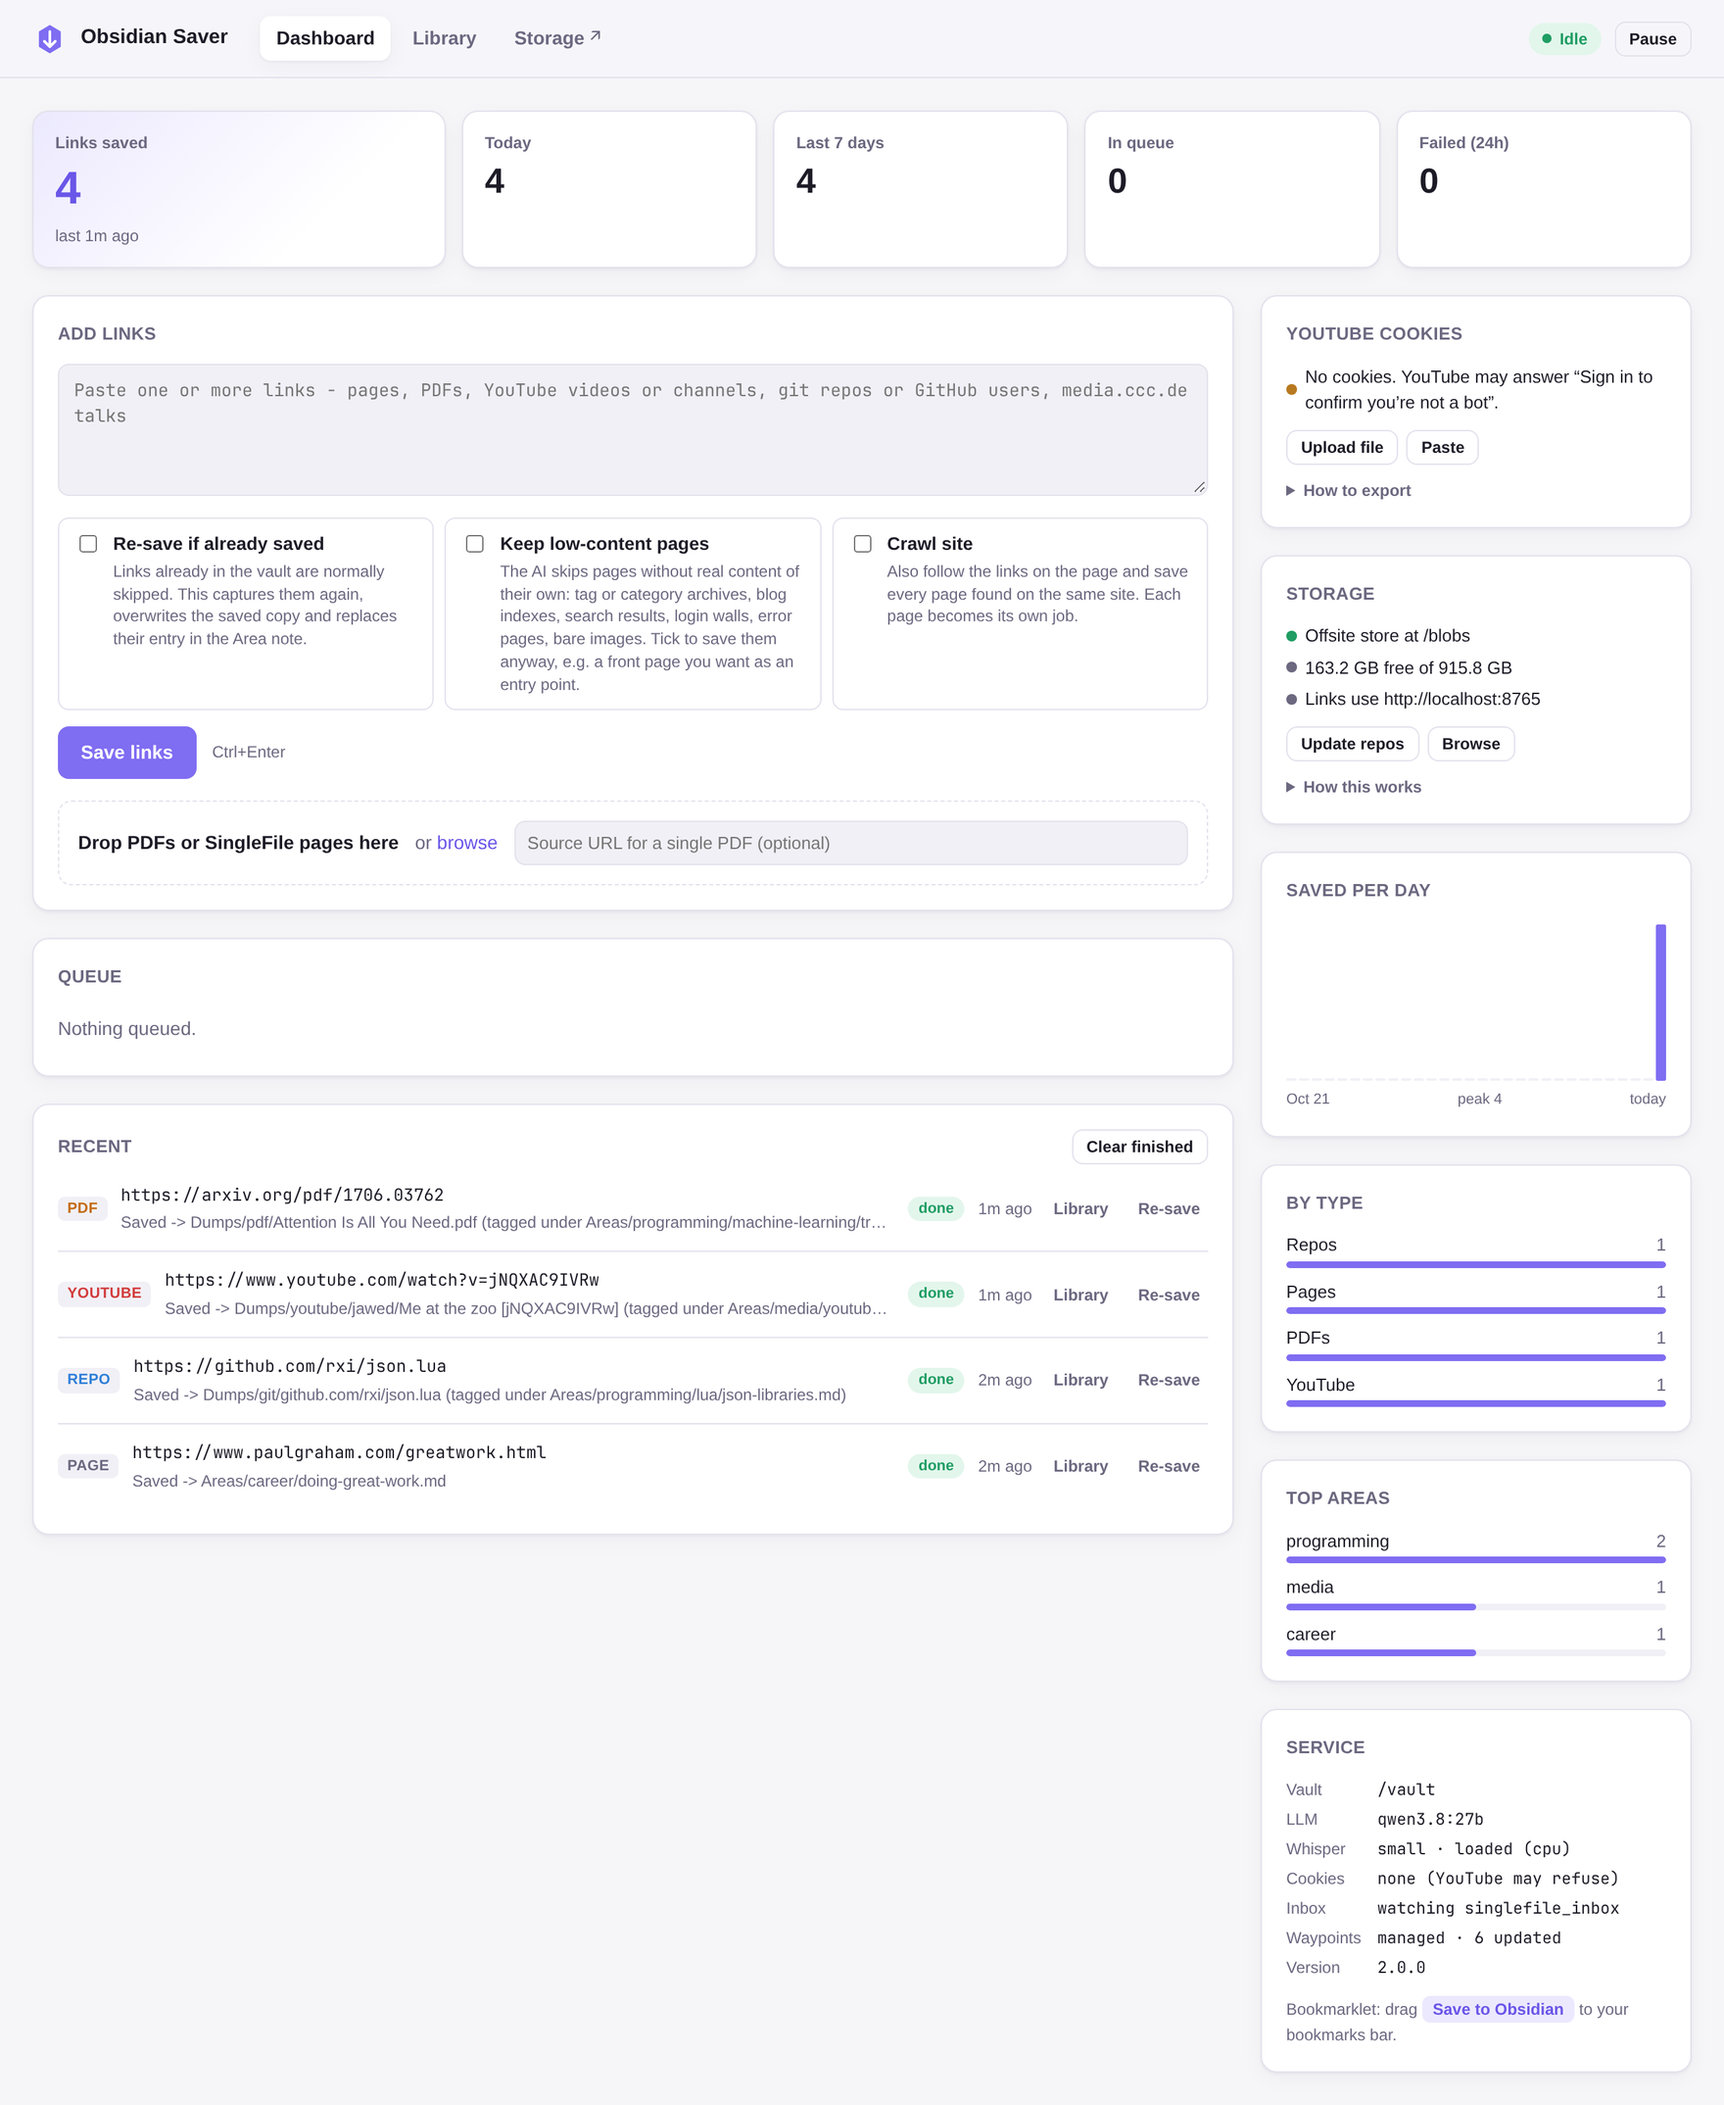
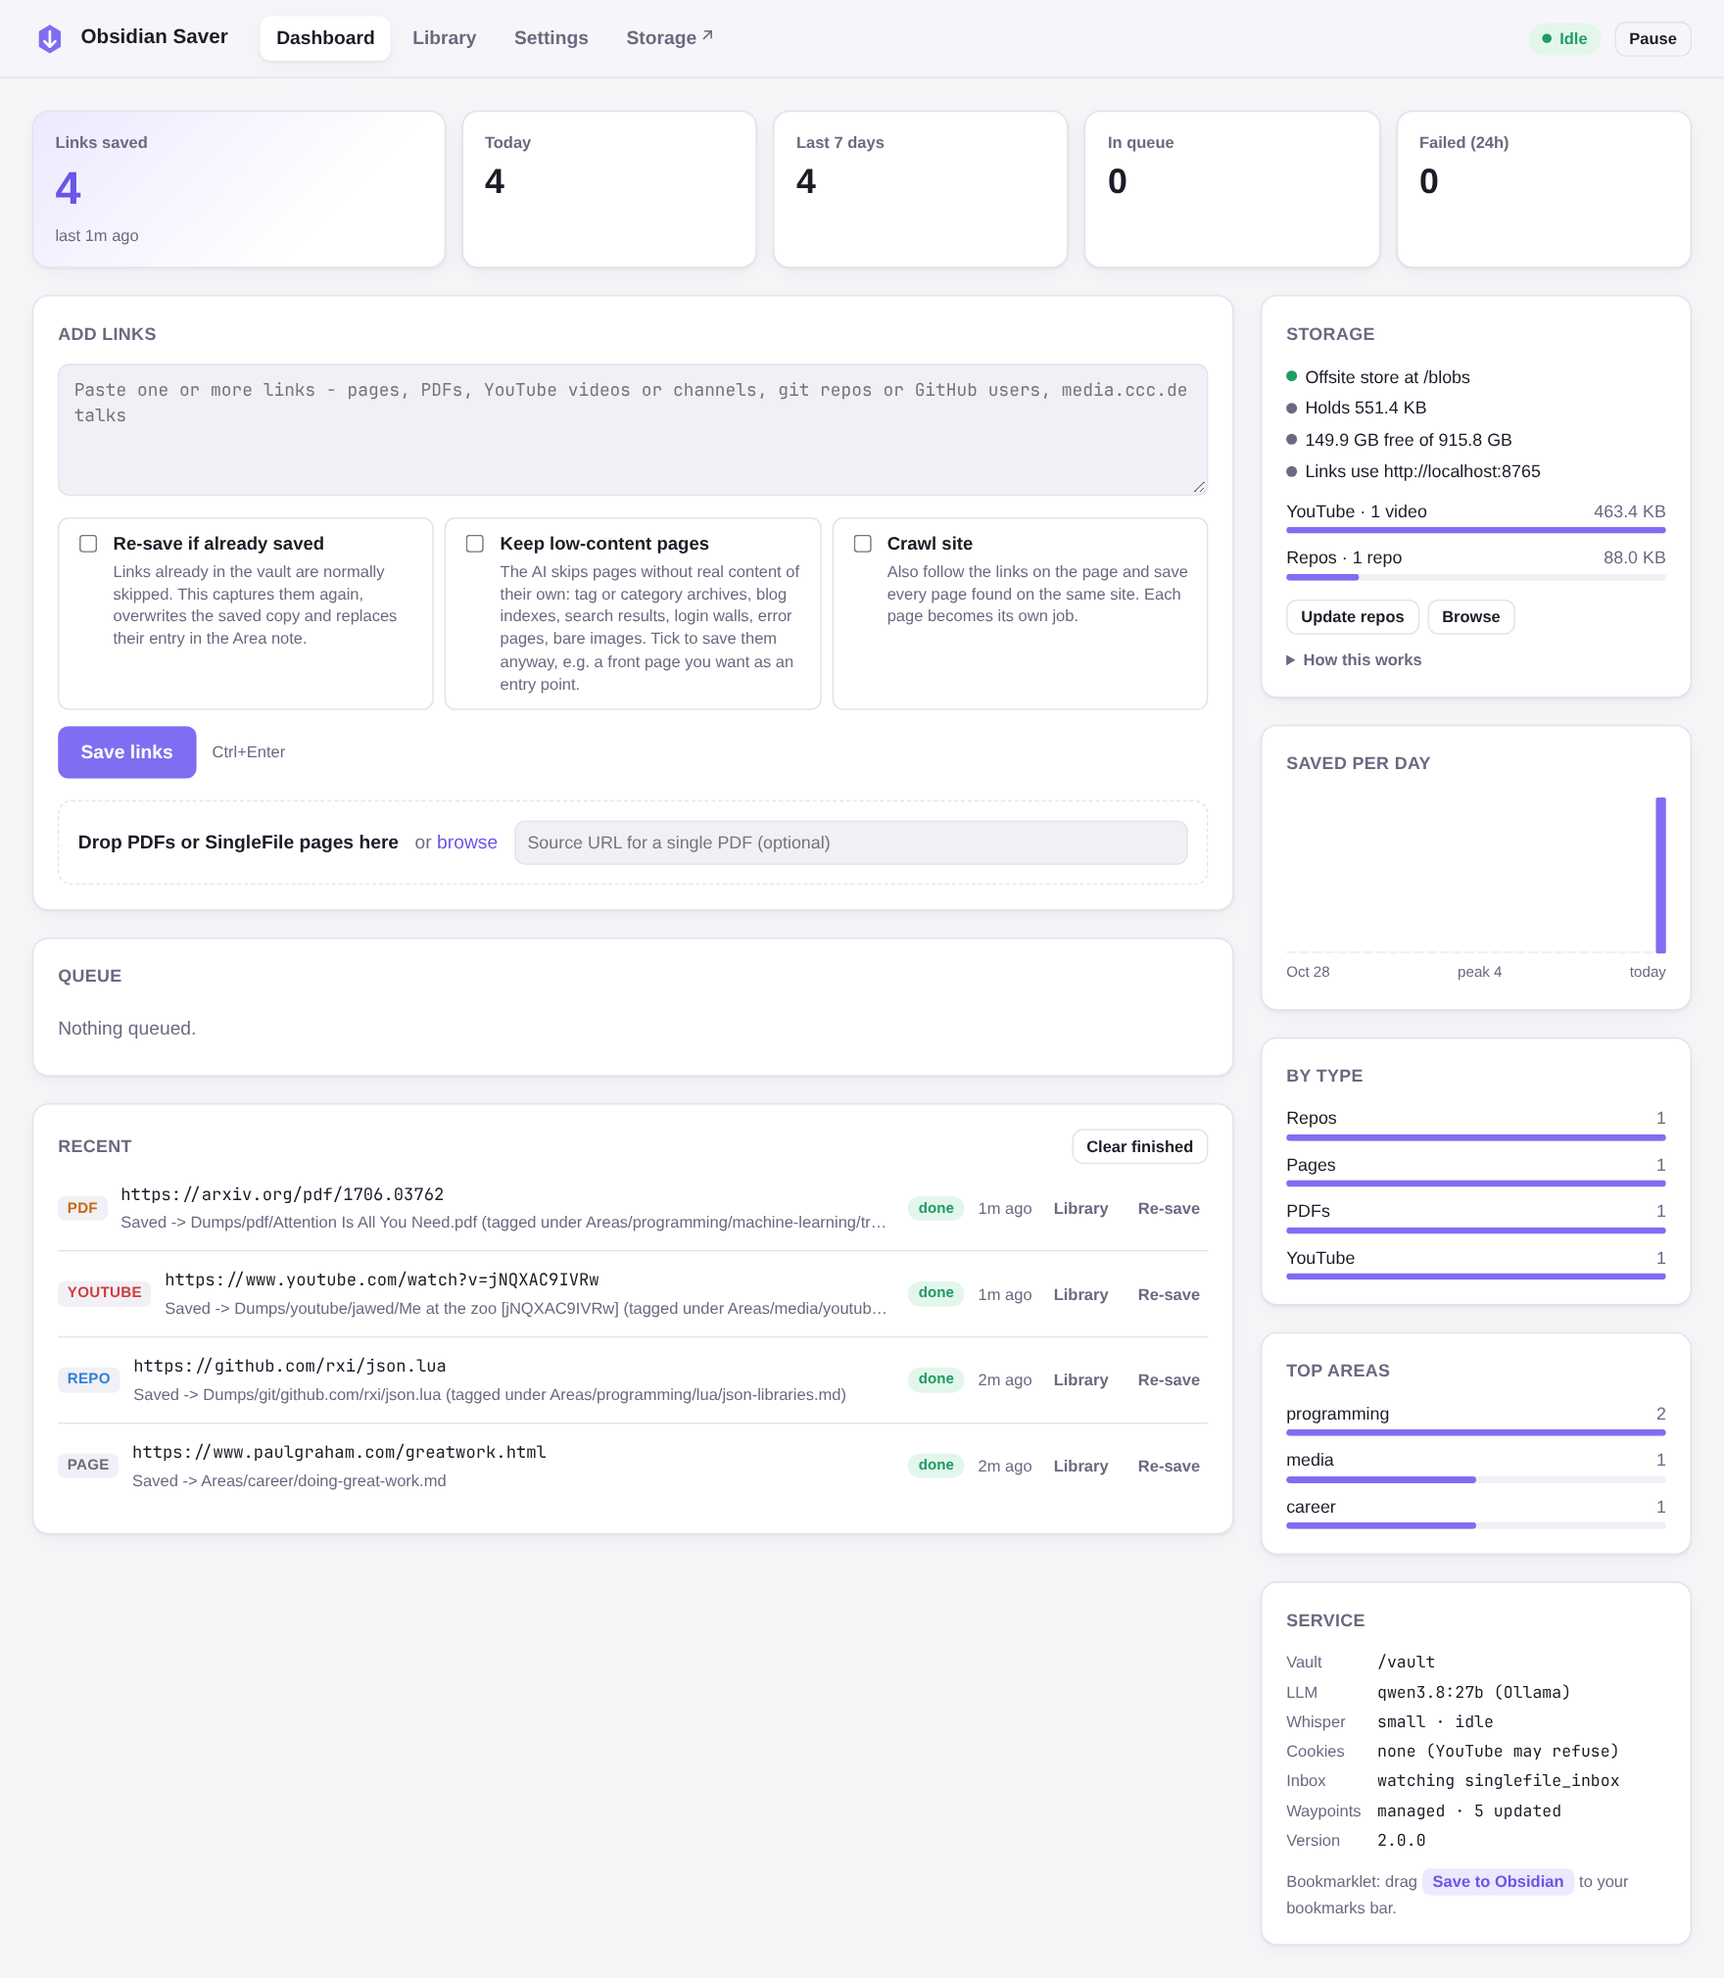
README: new dashboard, library and settings screenshots
The dashboard and library show the Settings tab, and the dashboard the
blob store's size; the Settings tab gets a screenshot of its own. Same
four saved links as before; the job log, repo browser and video player
haven't changed.

diff --git a/README.md b/README.md
@@ -77,8 +77,8 @@ The vault layout it uses (created when missing):
 
 ## Screenshots
 
-All taken on a fresh [quick start](#quick-start-on-your-own-machine) after
-saving four links.
+All taken on a [quick start](#quick-start-on-your-own-machine) with four
+saved links.
 
 | | |
 |---|---|
@@ -86,6 +86,8 @@ saving four links.
 | **Library:** everything saved, searchable, with links to the note and the stored files | **Job log:** each stage of a save; videos are filed by their transcript |
 | <picture><source media="(prefers-color-scheme: dark)" srcset="docs/screenshots/repo-browser-dark.png"><img alt="The blob store's file browser showing a cloned repository and its README" src="docs/screenshots/repo-browser.png"></picture> | <picture><source media="(prefers-color-scheme: dark)" srcset="docs/screenshots/watch-dark.jpg"><img alt="The video player with Whisper subtitles" src="docs/screenshots/watch.jpg"></picture> |
 | **Stored repositories:** the full clone lives outside the vault, browsable | **Video player:** stored videos play in the browser with Whisper subtitles |
+| <picture><source media="(prefers-color-scheme: dark)" srcset="docs/screenshots/settings-dark.png"><img alt="The Settings tab: LLM provider, model and API key, Whisper model and device, and the YouTube cookies" src="docs/screenshots/settings.png"></picture> | |
+| **Settings:** switch the LLM backend and model, pick the Whisper model, upload YouTube cookies | |
 
 ## Quick start (on your own machine)
 
